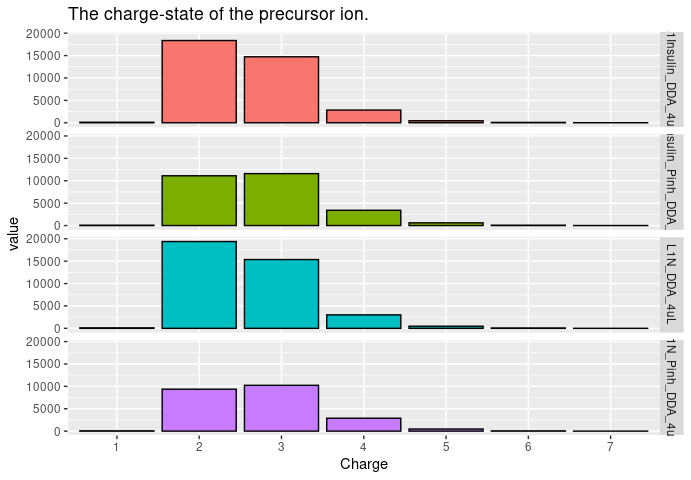
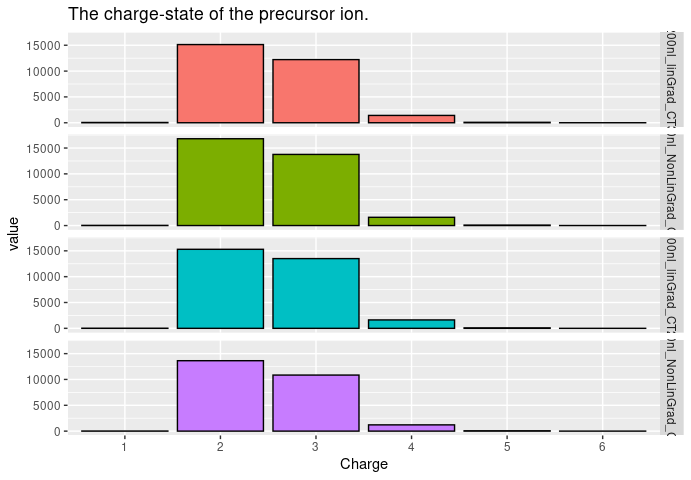
finishing

diff --git a/README.md b/README.md
@@ -119,10 +119,17 @@ PlotIdentificationType(peptides)
 <img src="man/figures/README-IdentificationType-1.png" width="100%" />
 
 ``` r
-PlotCharge(evidence)
+PlotCharge(evidence_irt)
 ```
 
 <img src="man/figures/README-Charg-1.png" width="100%" />
+
+``` r
+
+PlotMissedCleavages(peptides)
+```
+
+<img src="man/figures/README-missed_cleavages-1.png" width="100%" />
 
 ``` r
 PlotTotalIonCurrent(msmsScans)
